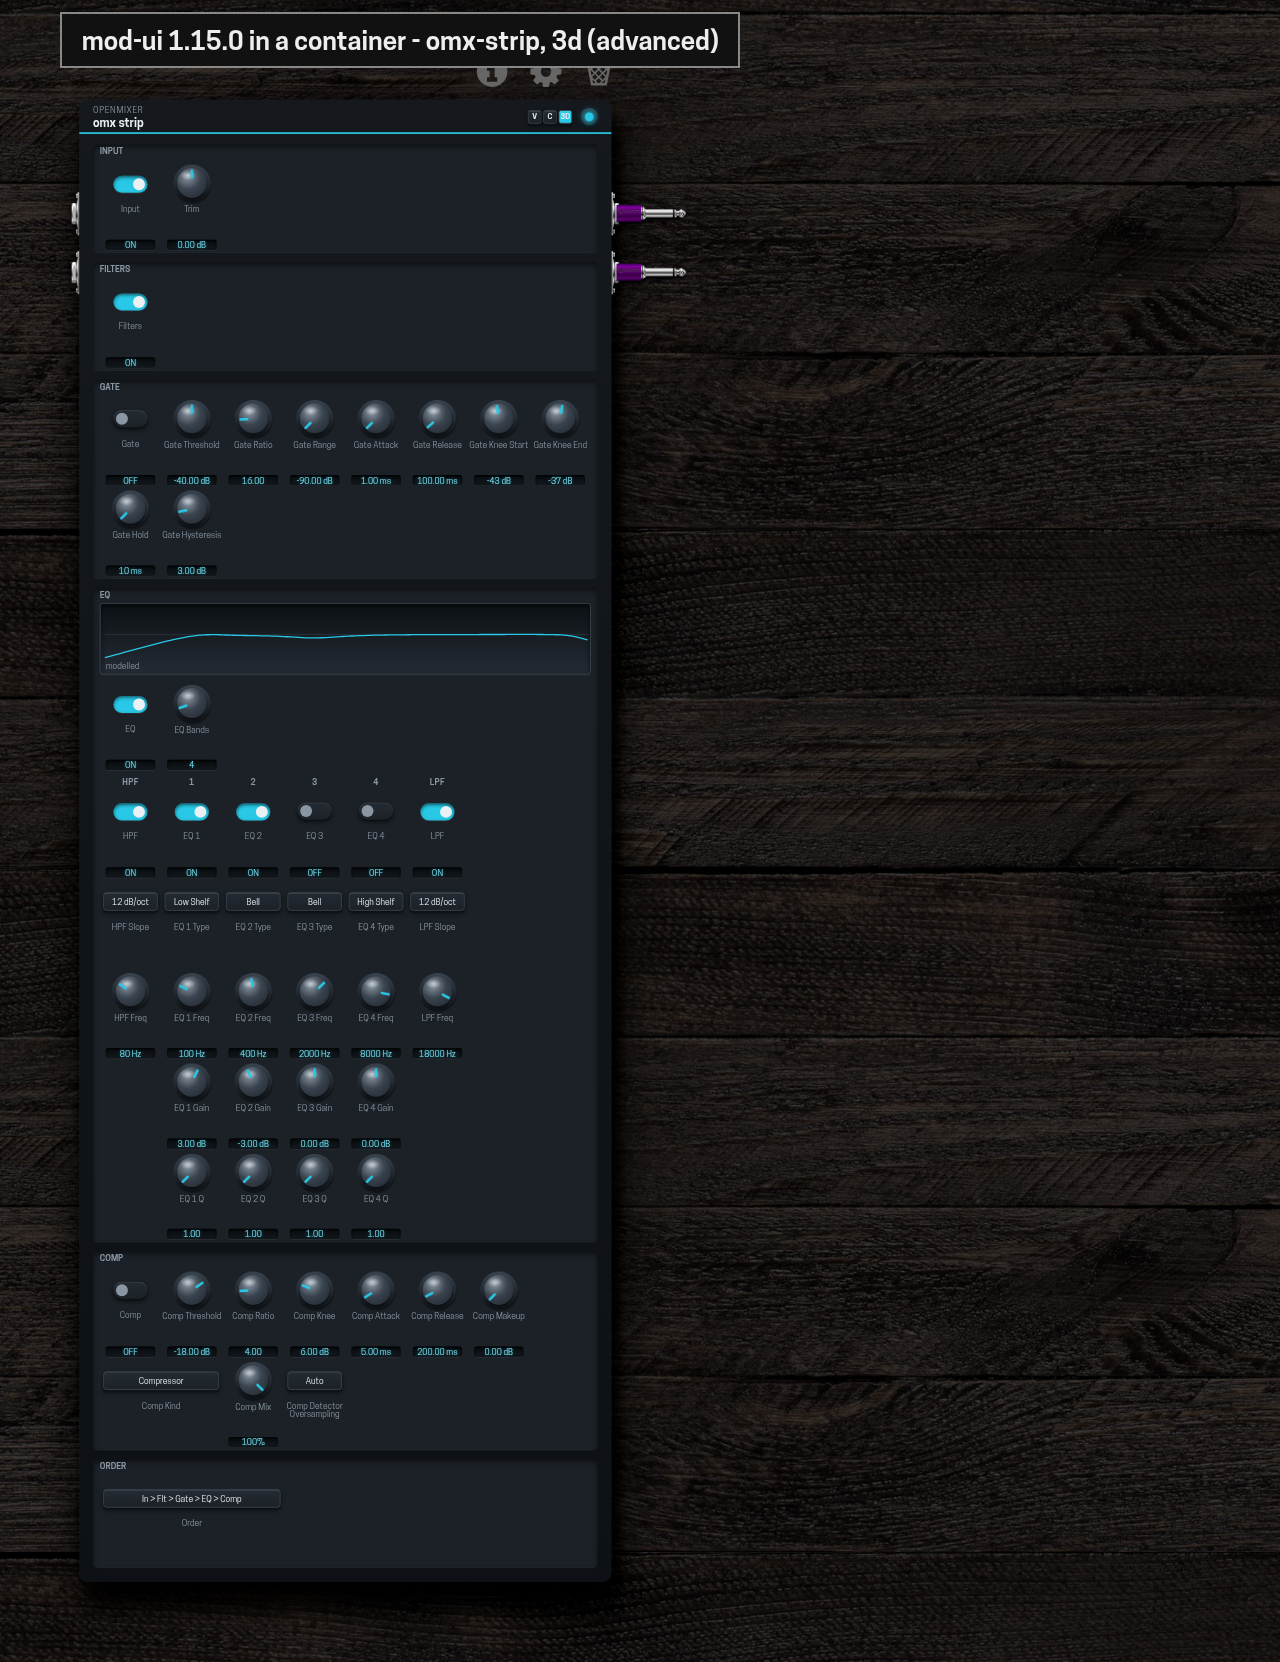
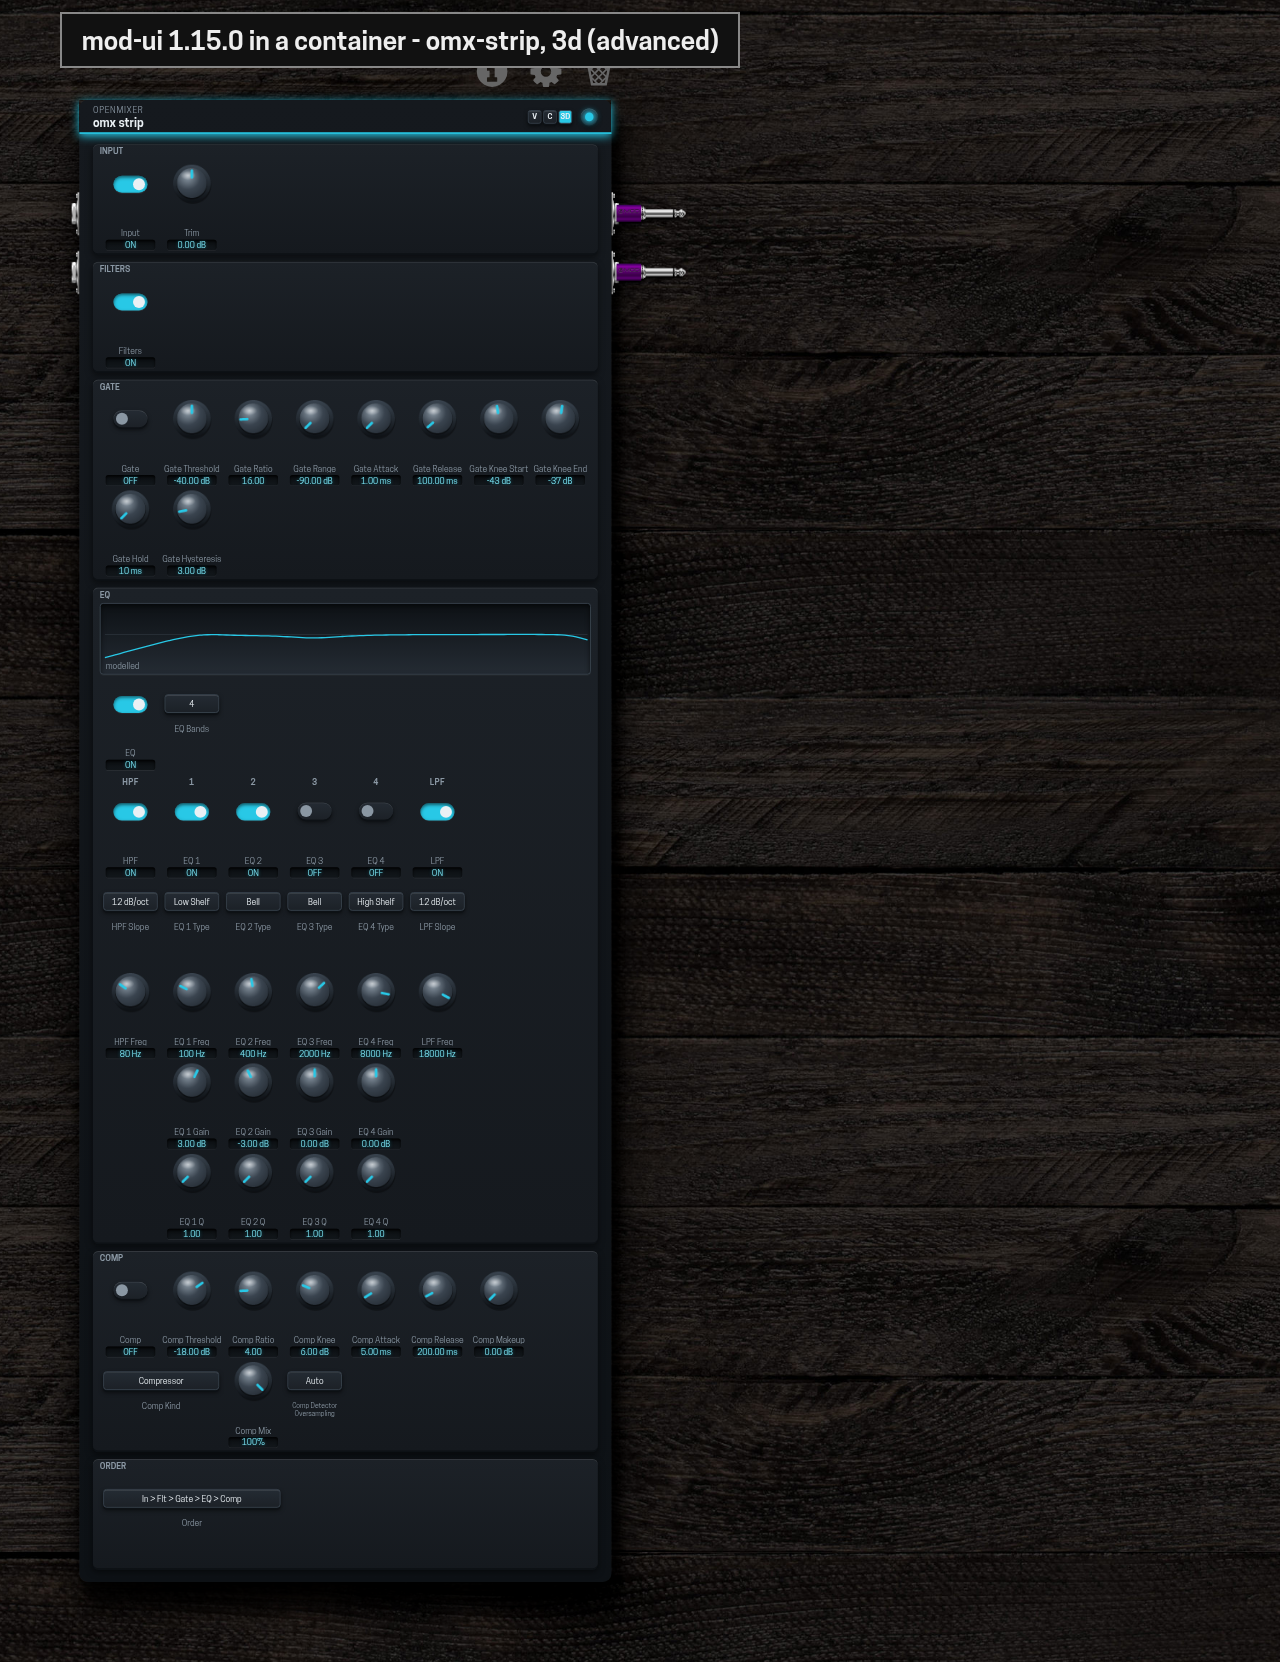
docs: the MOD GUI shots retaken once more, with the vintage metal close-up
mod-ui 1.15.0 in a container on omx2, the same label and paths as before, plus a close-up of the vintage look's aluminium knobs, recessed glass,
scribbles and metal caps. They show the label fit, the one label gap, the console's relief and metal, the raised-section 3d look and omx-strip's
EQ Bands as a selector; the shots' README names the new one.

diff --git a/docs/shots/README.md b/docs/shots/README.md
@@ -7,3 +7,5 @@ Every image: real mod-ui 1.15.0 (build v1.15.0.3371, commit 391c1ed, github.com/
 - `mod-ui-1.15.0-container-strip-vintage-easy.png`, `-strip-vintage-advanced.png`, `-strip-console-advanced.png`, `-strip-3d-advanced.png`: omx-strip. These are drawn from a bundle whose come-up values ENGAGE the filters and two bands (HPF on at 80 Hz, LPF on at 18 kHz, band 1 +3 dB, band 2 -3 dB) so the static EQ curve shows them; the shipped plugin comes up with hpfOn=false, lpfOn=false and every band off.
 - `mod-ui-1.15.0-container-comp-live-vintage-needles.png`: omx-comp, vintage, the needles mid-lag: the output ports (compIn, compOut, compKey, compGr) are driven from the page through mod-ui's own output_set path, a scripted level sweep, not an audio tone.
 - `mod-ui-1.15.0-container-comp-live-switch-console.png`, `-switch-3d.png`, `-switch-vintage.png`: the same pedal after a click on the header's look switch; the size and the ports do not change.
+- `mod-ui-1.15.0-container-comp-vintage-metal-closeup.png`: omx-comp, vintage, a close-up (device scale 4) of the header and the first section: the knob film strips in the console's aluminium metal (cap-hi to face, rim, knurl, carved pointer), the recessed glass, the lit scribbles, the metal button caps and the footswitch.
+- Retaken after the label fit (a label breaks only between words, one declared gap to its value strip), the console's relief and metal in the vintage look, the raised-section 3d look, and omx-strip's EQ Bands as a selector.
